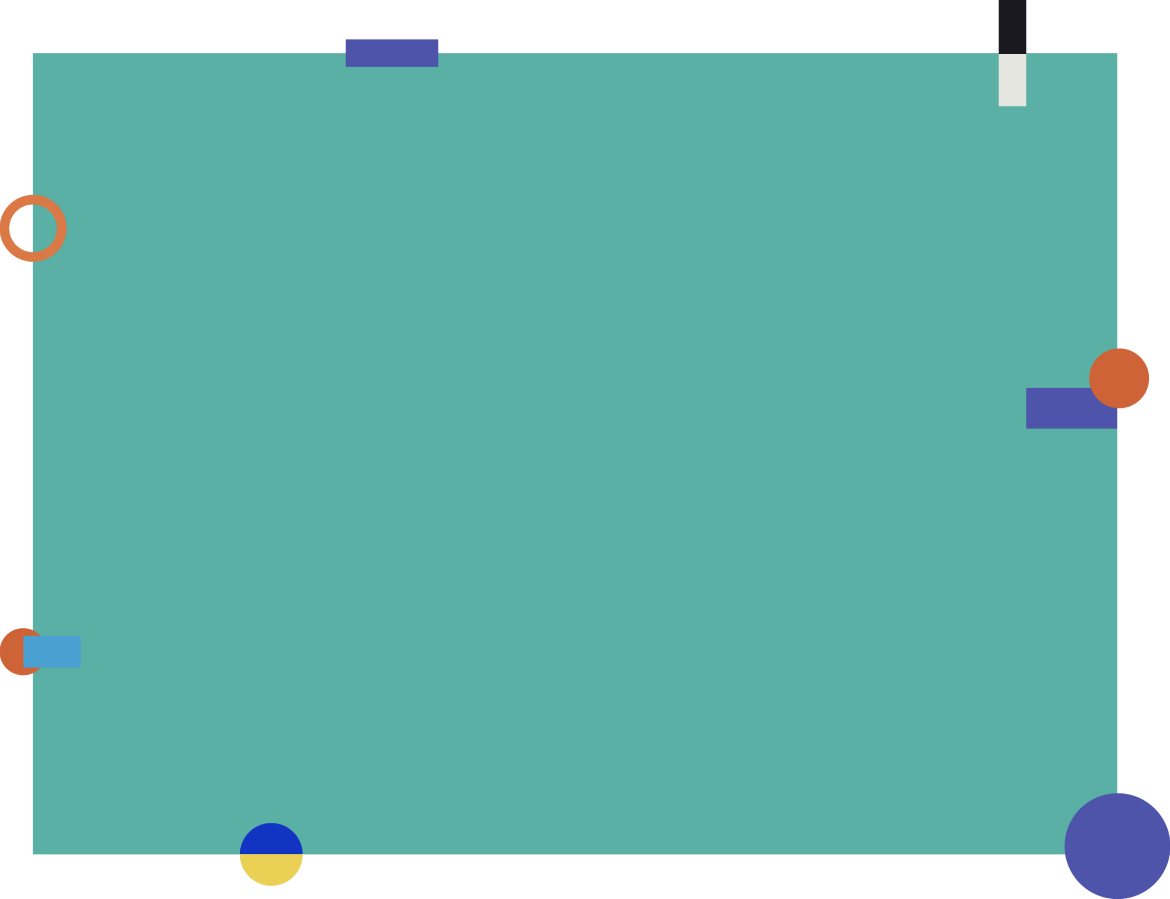
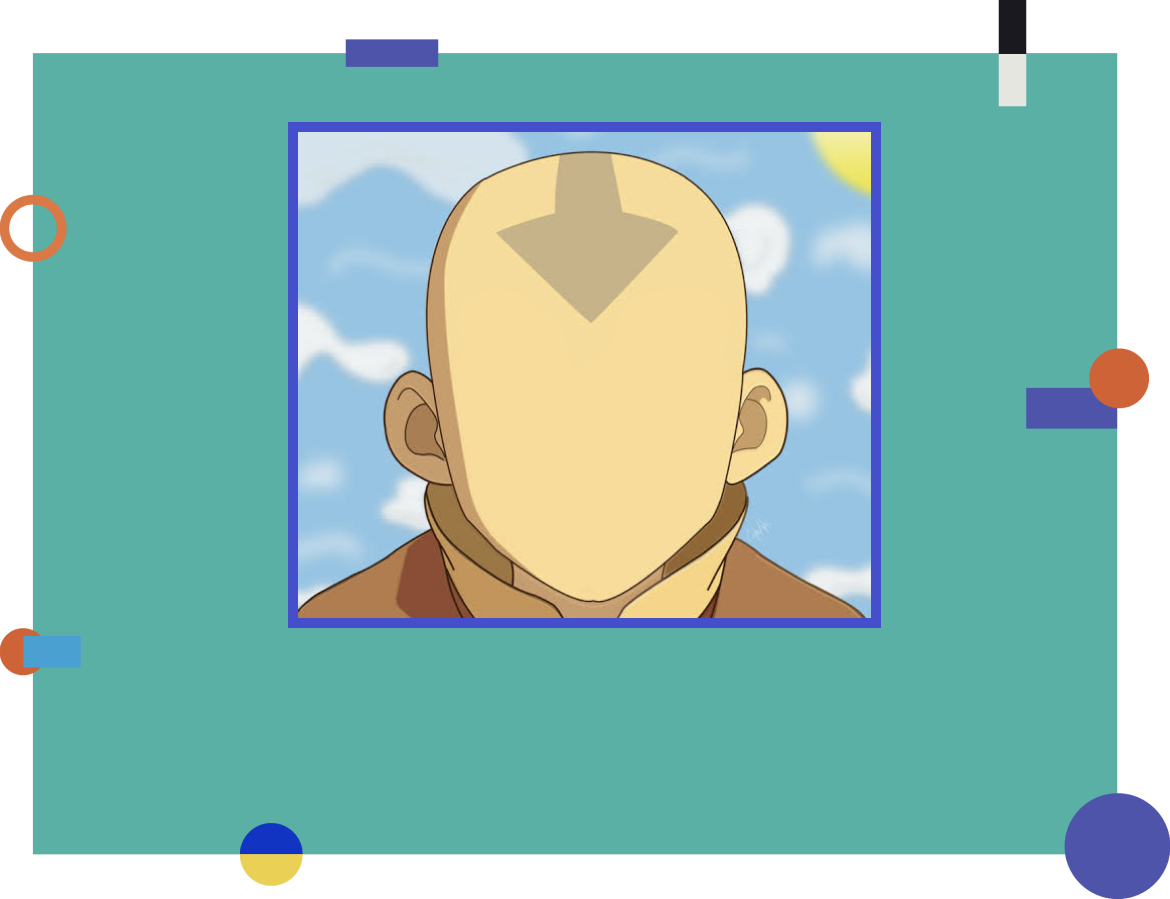
blm fix design nya dan blm responsif

Changed region(s): [[0.2462, 0.1246, 0.7692, 0.7164]]

diff --git a/src/containers/LandingPage/index.js b/src/containers/LandingPage/index.js
@@ -1,11 +1,12 @@
 import React from "react";
 // import ReactDOM from 'react-dom';
-import posed from "react-pose";
+import posed, { PoseGroup } from "react-pose";
 // import SplitText from "react-pose-text";
 
 import { Carousel } from "react-responsive-carousel";
 import "react-responsive-carousel/lib/styles/carousel.min.css";
 import FadeIn from "react-fade-in";
+// import Fade from 'react-reveal/Fade';
 import Lottie from "react-lottie";
 // import ReactLoading from "react-loading";
 import "bootstrap/dist/css/bootstrap.css";
@@ -14,8 +15,8 @@ import "bootstrap/dist/css/bootstrap.css";
 
 import HeaderFooter from "../../components/HeaderFooter";
 // import logoGede from "../../asset/logoGede.png";
-import avatar from "../../asset/avatar.png";
-import ijug from "../../asset/ijug.png";
+// import avatar from "../../asset/avatar.png";
+// import ijug from "../../asset/ijug.png";
 import prayaFerdi3 from "../../asset/prayaFerdi3.png";
 import om2 from "../../asset/om2.png";
 // import dekorYellow from "../../asset/dekorYellow.png";
@@ -30,9 +31,6 @@ import * as pinwheelData from "../../asset/pinwheelLoading.json";
 import {
   LoadingScreen,
   LandingPageContainer,
-  FirstSection,
-  FirstSection2,
-  FirstSection3,
   SecondSection,
   FourthSection,
   FifthSection
@@ -99,6 +97,11 @@ const Ball = posed.div({
 //   }
 // };
 
+const FirstSection = posed.div({
+  enter: { opacity: 1 },
+  exit: { opacity: 0 }
+});
+
 class LandingPage extends React.Component {
   constructor(props) {
     super(props);
@@ -157,13 +160,10 @@ class LandingPage extends React.Component {
       }
     };
 
-    // let imgAvatar = avatar;
-    // if (stateAvatar === "fresh") imgAvatar = avatarIjug;
-    // if (stateAvatar === "comprehensive") imgAvatar = avatarIjug;
     const handleFirstSection = () => {
       if (tema === "fun") {
         return (
-          <FirstSection className={handleCurrentTema()} ref={this.firstSection}>
+          <FirstSection key="FUN" className={handleCurrentTema()}>
             <img
               src={selamatDatang}
               className="selamat-datang"
@@ -183,13 +183,12 @@ class LandingPage extends React.Component {
       }
       if (tema === "fresh") {
         return (
-          <FirstSection2>
-            <img
+          <FirstSection key="FRESH" className={handleCurrentTema()}>
+            {/* <img
               src={avatar}
-              style={{ display: "none" }}
               className="avatar"
               alt="avatar"
-            />
+            /> */}
             <ButtonTema
               type="button"
               className="tema"
@@ -199,17 +198,11 @@ class LandingPage extends React.Component {
             >
               FRESH
             </ButtonTema>
-          </FirstSection2>
+          </FirstSection>
         );
       }
       return (
-        <FirstSection3>
-          <img
-            src={ijug}
-            style={{ display: "none" }}
-            className="ijug"
-            alt="ijug"
-          />
+        <FirstSection key="COMPREHENSIVE" className={handleCurrentTema()}>
           <ButtonTema
             type="button"
             className="tema"
@@ -219,7 +212,7 @@ class LandingPage extends React.Component {
           >
             COMPREHENSIVE
           </ButtonTema>
-        </FirstSection3>
+        </FirstSection>
       );
     };
     return !done ? (
@@ -233,7 +226,9 @@ class LandingPage extends React.Component {
     ) : (
       <LandingPageContainer>
         <HeaderFooter color="dark">
-          {handleFirstSection()}
+          <FadeIn>
+            <PoseGroup>{handleFirstSection()}</PoseGroup>
+          </FadeIn>
           <SecondSection>
             <Ball
               onTouchStart={() => handleClickBall()}

diff --git a/src/containers/LandingPage/style.js b/src/containers/LandingPage/style.js
@@ -6,6 +6,8 @@ import thirdBG from "../../asset/thirdSectionBG.png";
 import fourthBG from "../../asset/fourthSectionBG.svg";
 import daftarButton from "../../asset/daftarButton.png";
 import ball from "../../asset/ball.png";
+import ijugBG from "../../asset/ijugBackground.png";
+import firstSection2 from "../../asset/firstSection2.png";
 // import pohonCompressedLagi from "../../asset/pohonCompressedLagi.gif";
 
 const yellow = "#F1CF33";
@@ -42,10 +44,8 @@ export const LandingPageContainer = styled.div`
   button:focus {
     outline: 0;
   }
-`;
 
-export const FirstSection = styled.section`
-
+  .FUN{
     height: 100vh;
   width: 100vw;
   /* background-color: ${green};
@@ -67,7 +67,6 @@ export const FirstSection = styled.section`
   display: flex;
   flex-direction: column;
   align-items: center;
-  padding-top: 10px;
   position: relative;
   top: 0;
   left:0;
@@ -77,7 +76,7 @@ export const FirstSection = styled.section`
     border: none;
     cursor: pointer;
     font-weight: bold;
-    margin-top: 55vh;
+    margin-top: 65vh;
     height: 80px;
     width: 140px;
     border-radius: 90px;
@@ -179,53 +178,82 @@ export const FirstSection = styled.section`
       margin-top: 65vh;
     }
   }
-  
-`;
+  }
 
-export const FirstSection2 = styled.section`
+  .FRESH{
   height: 100vh;
   width: 100vw;
   background-color: ${white};
+  background-image: url(${firstSection2});
+  background-size: 800px;
+  background-repeat: no-repeat;
+  background-position-x: center;
+  background-position-y: 70px;
+  background-attachment: fixed;
+
   display: flex;
   flex-direction: column;
   align-items: center;
-  .avatar {
+  
+  /* .avatar {
+    margin-top: 100px;
     width: 450px;
-  }
+  } */
+
   .tema {
     color: white;
     font-size: 2em;
     border: none;
     cursor: pointer;
     font-weight: bold;
-    margin-top: 30px;
+    margin-top: 65vh;
     height: 80px;
     width: 150px;
     border-radius: 90px;
     background-color: ${red};
   }
-`;
+  }
 
-export const FirstSection3 = styled.section`
-  height: 100vh;
-  width: 100vw;
-  display: flex;
-  flex-direction: column;
-  align-items: center;
-  background-color: ${blue};
-  .tema {
-    color: black;
-    font-size: 2em;
-    border: none;
-    cursor: pointer;
-    font-weight: bold;
-    margin-top: 30px;
-    height: 80px;
-    width: 350px;
-    border-radius: 90px;
-    background-color: ${yellow};
+  .COMPREHENSIVE{
+    height: 100vh;
+    width: 100vw;
+    display: flex;
+    flex-direction: column;
+    align-items: center;
+    background-color: ${blue};
+    background-image: url(${ijugBG});
+    background-size: contain;
+    background-repeat: no-repeat;
+    background-position-x: center;
+    background-position-y: 50px;
+    background-attachment: fixed;
+
+    .tema {
+      color: black;
+      font-size: 2em;
+      border: none;
+      cursor: pointer;
+      font-weight: bold;
+      margin-top: 65vh;
+      height: 80px;
+      width: 350px;
+      border-radius: 90px;
+      background-color: ${yellow};
+    }
   }
 `;
+
+// export const FirstSection = styled.section`
+
+// `;
+
+// export const FirstSection2 = styled.section`
+
+// `;
+
+// export const FirstSection3 = styled.section`
+
+// `;
 
 export const SecondSection = styled.section`
   height: 800px;

diff --git a/src/index.css b/src/index.css
@@ -4,6 +4,7 @@
   margin: 0;
   padding: 0;
 }
+
 html {
   overflow-x: hidden;
   width: 100vw;
